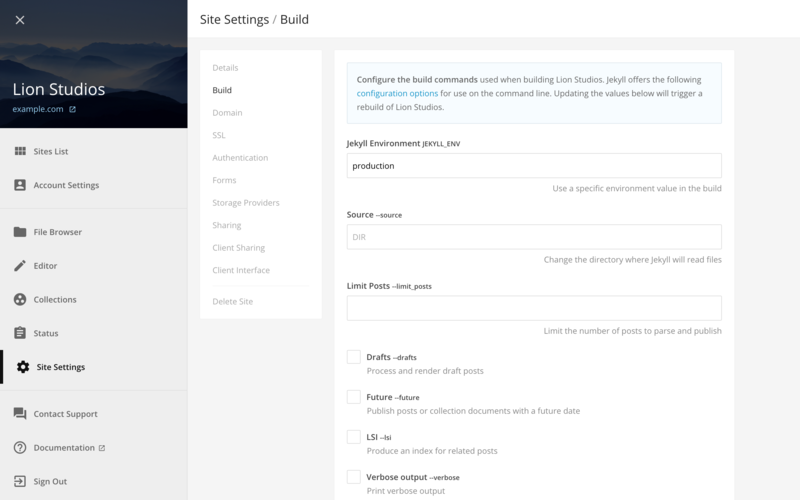
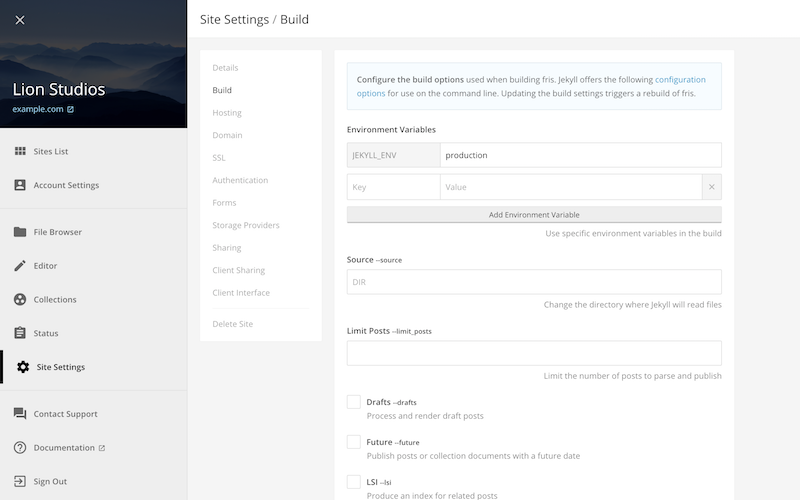
Update environment UI change

diff --git a/_building/environments.md b/_building/environments.md
@@ -13,17 +13,16 @@ For example, you could use a different CDN for your development, staging and pro
 To change the environment for your site:
 
 1. Go to the *Site Settings* / *Build* section
-2. Enter your new environment in *Jekyll Environment*
+2. Enter your new environment the **JEKYLL_ENV** field under *Environment Variables*
 3. Click **Update Build Details**
 
-This sets the `JEKYLL_ENV` environment variable.
 CloudCannon defaults to `production`. Running Jekyll locally defaults to `development`.
 {: .info}
 
 To change the environment on your local machine, set it before running Jekyll:
 
 {% highlight bash %}
-$ JEKYLL_ENV=production jekyll serve
+$ JEKYLL_ENV=production bundle exec jekyll serve
 {% endhighlight %}
 
 ---

diff --git a/_building/configuration.md b/_building/configuration.md
@@ -16,7 +16,7 @@ To change a command line build option:
 2. Change details for one or more options
 3. Click **Update Build Details**
 
-See in-depth details for configuring the [Environments](/building/environments/) and [Optimisations](/building/optimisations/) options.
+See in-depth details for configuring [Environments](/building/environments/) and [Optimisations](/building/optimisations/).
 {: .info}
 
 ![Site Settings Build Interface](/img/building/configuration.png){: srcset="/img/building/configuration.png 800w, /img/building/configuration@2x.png 1600w"}
